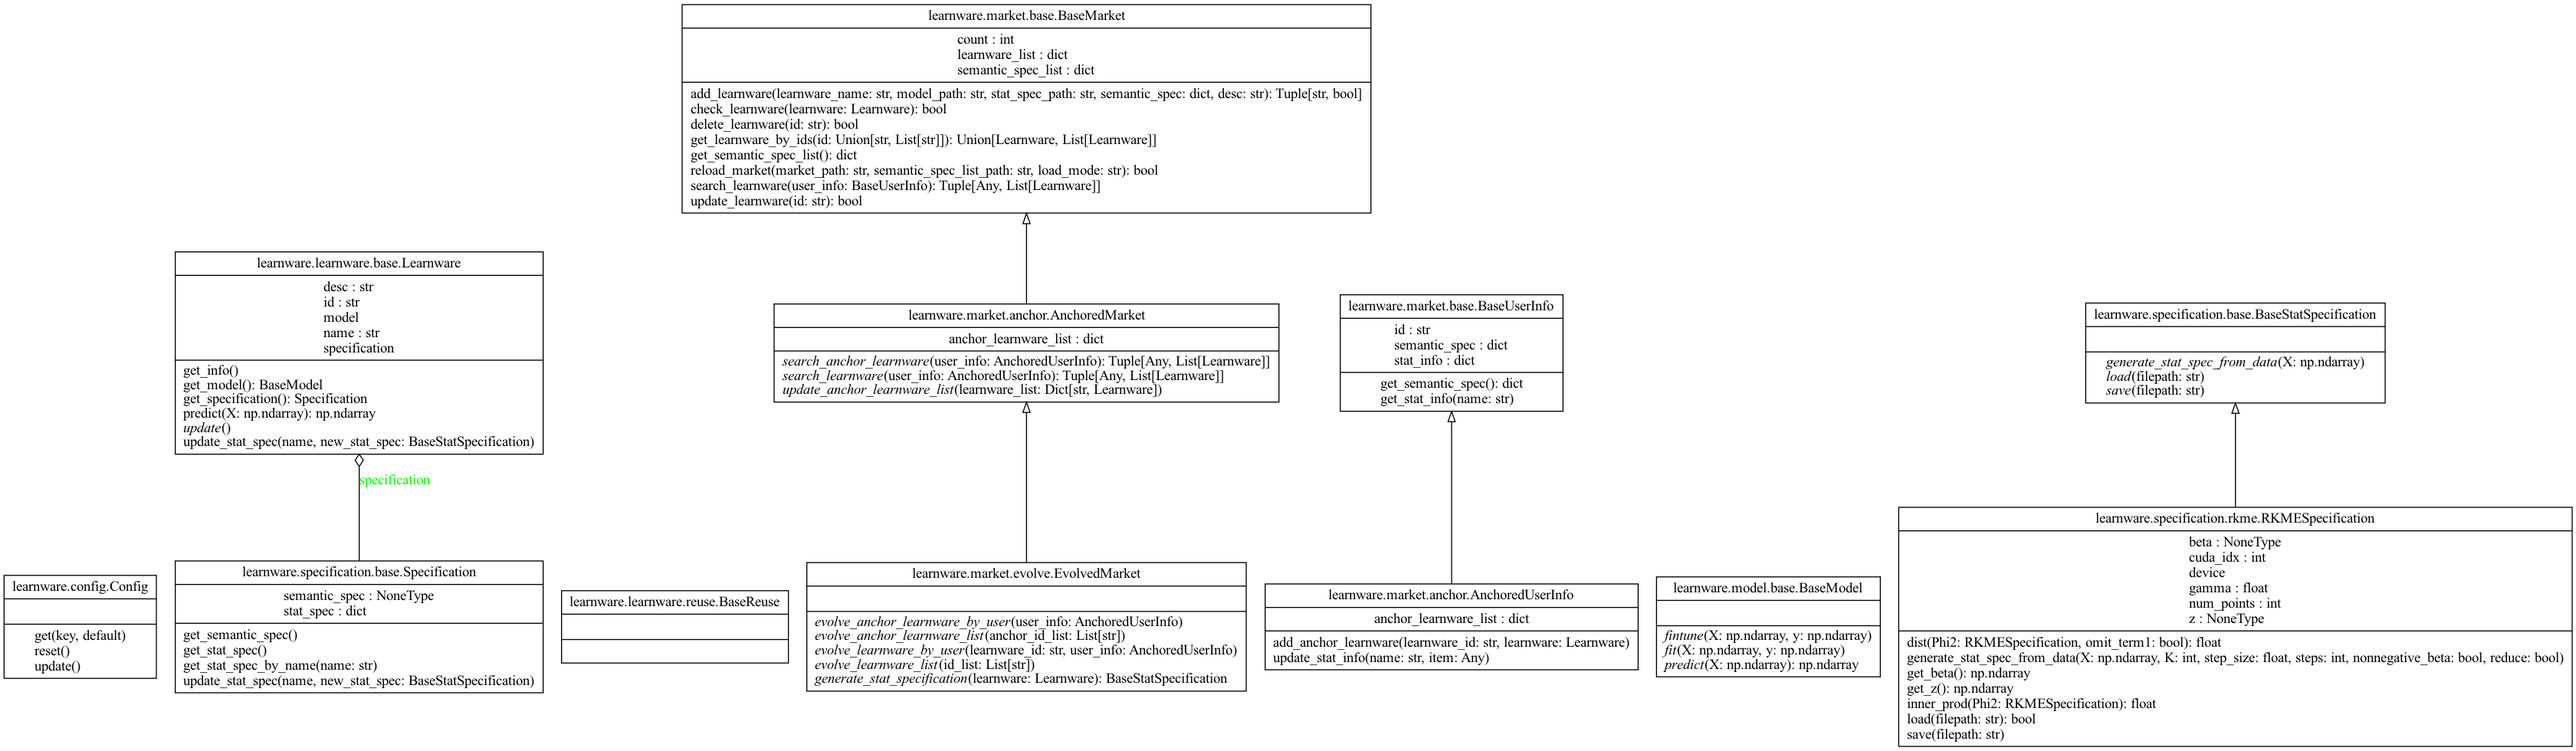
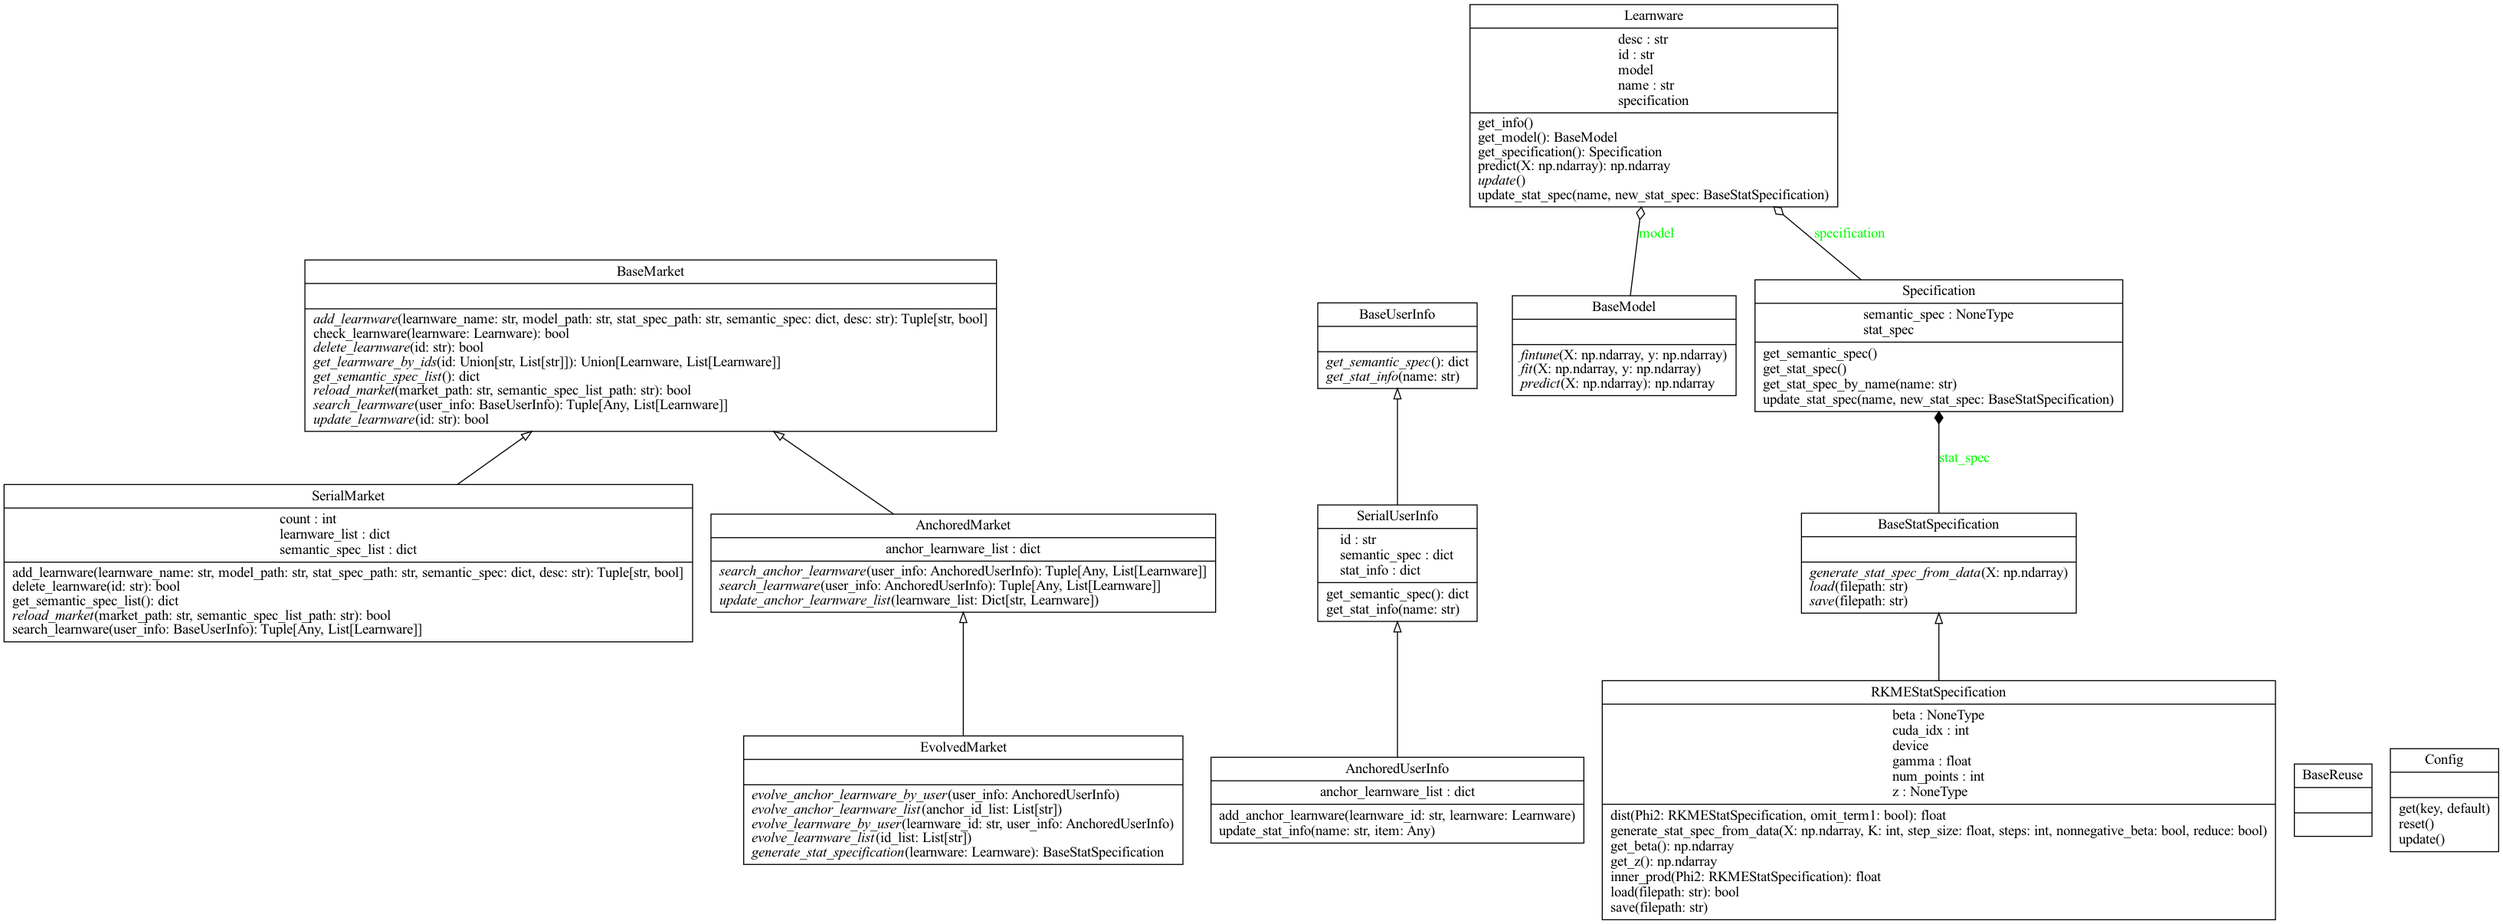
[ENH] Modify UserInfo Class

diff --git a/learnware/market/base.py b/learnware/market/base.py
@@ -10,34 +10,11 @@ from ..specification import RKMEStatSpecification
 class BaseUserInfo:
     """User Information for searching learnware"""
 
-    def __init__(self, id: str, semantic_spec: dict = dict(), stat_info: dict = dict()):
-        """Initializing user information
-
-        Parameters
-        ----------
-        id : str
-            user id
-        semantic_spec : dict, optional
-            semantic_spec selected by user, by default dict()
-        stat_info : dict, optional
-            statistical information uploaded by user, by default dict()
-        """
-        self.id = id
-        self.semantic_spec = semantic_spec
-        self.stat_info = stat_info
-
     def get_semantic_spec(self) -> dict:
-        """Return user semantic specifications
-
-        Returns
-        -------
-        dict
-            user semantic specifications
-        """
-        return self.semantic_spec
+        raise NotImplementedError("get_semantic_spec is Not Implemented")
 
     def get_stat_info(self, name: str):
-        return self.stat_info.get(name, None)
+        raise NotImplementedError("get_stat_info is Not Implemented")
 
 
 class BaseMarket:

diff --git a/learnware/specification/utils.py b/learnware/specification/utils.py
@@ -1,7 +1,7 @@
 import numpy as np
 
 from .base import BaseStatSpecification
-from .rkme import RKMESpecification
+from .rkme import RKMEStatSpecification
 
 
 def generate_rkme_spec(
@@ -13,10 +13,10 @@ def generate_rkme_spec(
     nonnegative_beta: bool = True,
     reduce: bool = True,
     cuda_idx: int = -1,
-) -> RKMESpecification:
+) -> RKMEStatSpecification:
     """
             Interface for users to generate Reduced-set Kernel Mean Embedding (RKME) specification.
-            Return a RKMESpecification object, use .save() method to save as json file.
+            Return a RKMEStatSpecification object, use .save() method to save as json file.
 
 
     Parameters
@@ -41,10 +41,10 @@ def generate_rkme_spec(
 
     Returns
     -------
-    RKMESpecification
-            A RKMESpecification object
+    RKMEStatSpecification
+            A RKMEStatSpecification object
     """
-    rkme_spec = RKMESpecification(gamma=gamma, cuda_idx=cuda_idx)
+    rkme_spec = RKMEStatSpecification(gamma=gamma, cuda_idx=cuda_idx)
     rkme_spec.generate_stat_spec_from_data(X, K, step_size, steps, nonnegative_beta, reduce)
     return rkme_spec
 

diff --git a/learnware/market/serial.py b/learnware/market/serial.py
@@ -7,6 +7,35 @@ from .base import BaseMarket, BaseUserInfo
 from ..learnware import Learnware
 from ..specification import RKMEStatSpecification
 
+class SerialUserInfo(BaseUserInfo):
+    def __init__(self, id: str, semantic_spec: dict = dict(), stat_info: dict = dict()):
+        """Initializing user information
+
+        Parameters
+        ----------
+        id : str
+            user id
+        semantic_spec : dict, optional
+            semantic_spec selected by user, by default dict()
+        stat_info : dict, optional
+            statistical information uploaded by user, by default dict()
+        """
+        self.id = id
+        self.semantic_spec = semantic_spec
+        self.stat_info = stat_info
+
+    def get_semantic_spec(self) -> dict:
+        """Return user semantic specifications
+
+        Returns
+        -------
+        dict
+            user semantic specifications
+        """
+        return self.semantic_spec
+
+    def get_stat_info(self, name: str):
+        return self.stat_info.get(name, None)
 
 class SerialMarket(BaseMarket):
     def __init__(self):

diff --git a/learnware/learnware/base.py b/learnware/learnware/base.py
@@ -8,10 +8,10 @@ from ..utils import get_module_by_module_path
 
 
 class Learnware:
-    def __init__(self, id: str, name: str, model: Union[BaseModel, dict], specification: Specification, desc: str):
+    def __init__(self, id: str, name: str, model: BaseModel, specification: Specification, desc: str):
         self.id = id
         self.name = name
-        self.model = self._import_model(model)
+        self.model = model
         self.specification = specification
         self.desc = desc
 

diff --git a/learnware/market/anchor.py b/learnware/market/anchor.py
@@ -2,10 +2,11 @@ import os
 from typing import Tuple, Any, List, Union, Dict
 
 from ..learnware import Learnware
-from .base import BaseUserInfo, BaseMarket
+from .base import  BaseMarket
+from .serial import SerialUserInfo
 
 
-class AnchoredUserInfo(BaseUserInfo):
+class AnchoredUserInfo(SerialUserInfo):
     """
     User Information for searching learnware (add the anchor design)
 

diff --git a/learnware/specification/base.py b/learnware/specification/base.py
@@ -18,7 +18,7 @@ class BaseStatSpecification:
 class Specification:
     def __init__(self, semantic_spec=None):
         self.semantic_spec = semantic_spec
-        self.stat_spec = {}  # stat_spec should be dict
+        self.stat_spec = BaseStatSpecification()  # stat_spec should be dict
 
     def get_stat_spec(self):
         return self.stat_spec

diff --git a/learnware/market/__init__.py b/learnware/market/__init__.py
@@ -1,3 +1,4 @@
 from .base import BaseUserInfo, BaseMarket
 from .anchor import AnchoredUserInfo, AnchoredMarket
 from .evolve import EvolvedMarket
+from .serial import SerialMarket, SerialUserInfo

diff --git a/docs/references/api.rst b/docs/references/api.rst
@@ -14,6 +14,9 @@ Market
 .. autoclass:: learnware.market.BaseMarket
     :members:
 
+.. autoclass:: learnware.market.SerialMarket
+    :members:
+
 .. autoclass:: learnware.market.AnchoredMarket
     :members:
 
@@ -21,6 +24,9 @@ Market
     :members:
 
 .. autoclass:: learnware.market.BaseUserInfo
+    :members:
+
+.. autoclass:: learnware.market.SerialUserInfo
     :members:
 
 Learnware
@@ -41,5 +47,5 @@ Specification
 .. autoclass:: learnware.specification.BaseStatSpecification
     :members:
 
-.. autoclass:: learnware.specification.RKMESpecification
+.. autoclass:: learnware.specification.RKMEStatSpecification
     :members:
